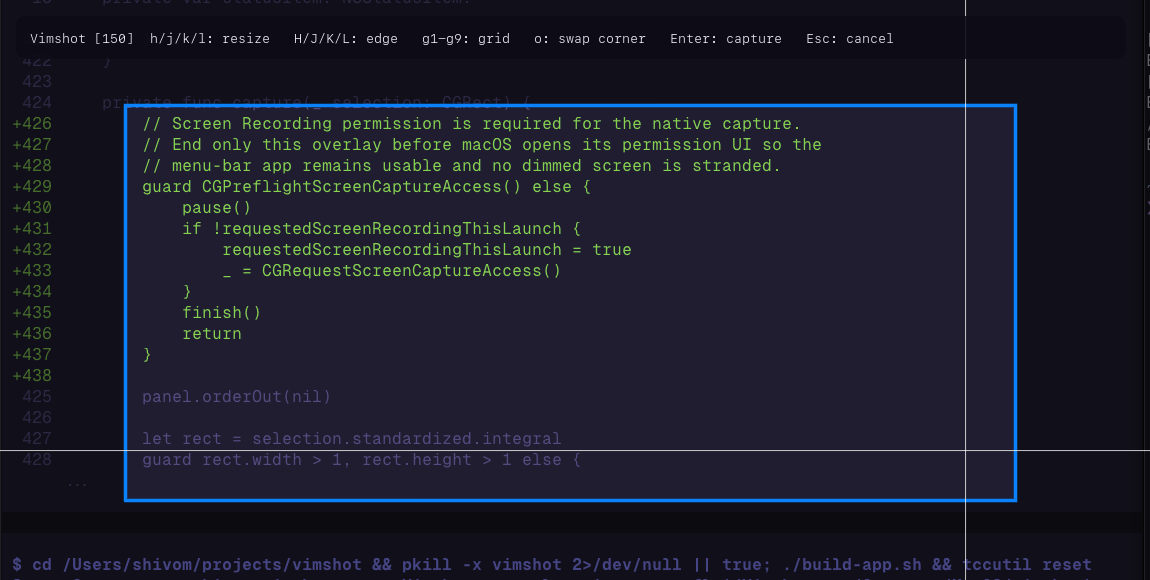
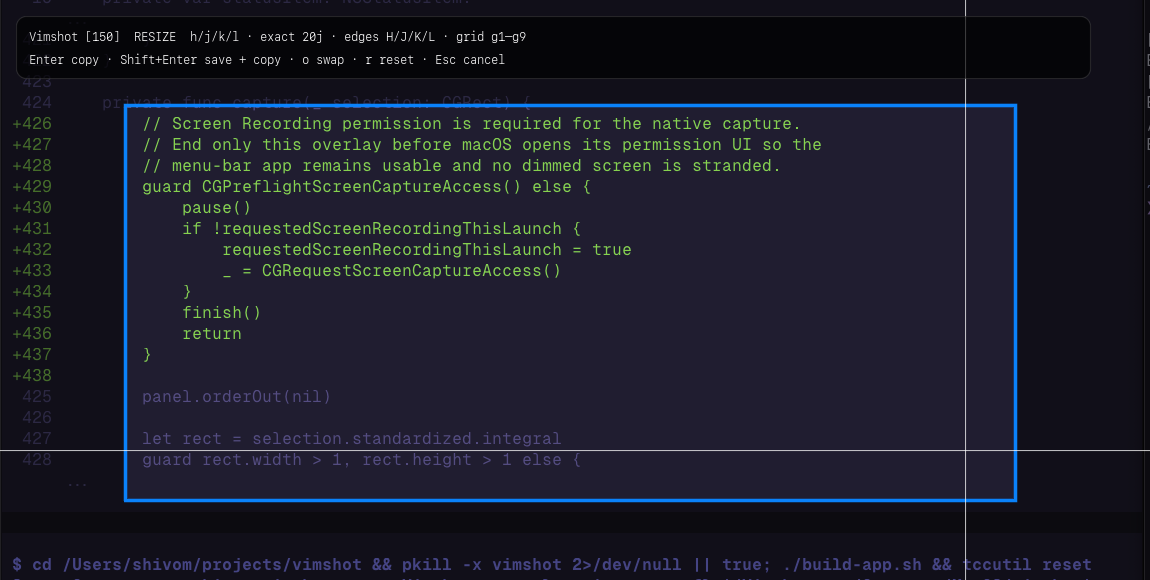
Add explicit capture modes and responsive HUD

diff --git a/Sources/Vimshot/main.swift b/Sources/Vimshot/main.swift
@@ -11,6 +11,11 @@ private let carbonControl: UInt32 = UInt32(controlKey)
 private var requestedAccessibilityThisLaunch = false
 private var requestedScreenRecordingThisLaunch = false
 
+enum CaptureMode: Equatable {
+    case clipboardOnly
+    case clipboardAndFile
+}
+
 final class AppDelegate: NSObject, NSApplicationDelegate {
     private var overlay: ScreenshotOverlay?
     private var statusItem: NSStatusItem!
@@ -340,8 +345,8 @@ final class ScreenshotOverlay {
         panel.collectionBehavior = [.canJoinAllSpaces, .fullScreenAuxiliary, .stationary]
         panel.hidesOnDeactivate = true
 
-        view.onFinish = { [weak self] selection in
-            self?.capture(selection)
+        view.onFinish = { [weak self] selection, mode in
+            self?.capture(selection, mode: mode)
         }
         view.onCancel = { [weak self] in
             self?.finish()
@@ -422,7 +427,7 @@ final class ScreenshotOverlay {
         }
     }
 
-    private func capture(_ selection: CGRect) {
+    private func capture(_ selection: CGRect, mode: CaptureMode) {
         // Screen Recording permission is required for the native capture.
         // End only this overlay before macOS opens its permission UI so the
         // menu-bar app remains usable and no dimmed screen is stranded.
@@ -445,13 +450,19 @@ final class ScreenshotOverlay {
             return
         }
 
-        let folder = FileManager.default.homeDirectoryForCurrentUser
-            .appendingPathComponent("Pictures/Screenshots", isDirectory: true)
-        try? FileManager.default.createDirectory(at: folder, withIntermediateDirectories: true)
+        let destination: URL
+        if mode == .clipboardAndFile {
+            let folder = FileManager.default.homeDirectoryForCurrentUser
+                .appendingPathComponent("Pictures/Screenshots", isDirectory: true)
+            try? FileManager.default.createDirectory(at: folder, withIntermediateDirectories: true)
 
-        let formatter = DateFormatter()
-        formatter.dateFormat = "yyyy-MM-dd-HHmmss"
-        let destination = folder.appendingPathComponent("Vimshot-\(formatter.string(from: Date())).png")
+            let formatter = DateFormatter()
+            formatter.dateFormat = "yyyy-MM-dd-HHmmss-SSS"
+            destination = folder.appendingPathComponent("Vimshot-\(formatter.string(from: Date())).png")
+        } else {
+            destination = FileManager.default.temporaryDirectory
+                .appendingPathComponent("Vimshot-\(UUID().uuidString).png")
+        }
 
         // AppKit uses a bottom-left origin; screencapture uses the Quartz top-left origin.
         let quartzX = Int(rect.minX.rounded())
@@ -479,7 +490,12 @@ final class ScreenshotOverlay {
                     NSPasteboard.general.clearContents()
                     NSPasteboard.general.writeObjects([image])
                 }
-                print(destination.path)
+                if mode == .clipboardOnly {
+                    try? FileManager.default.removeItem(at: destination)
+                    print("Copied screenshot to clipboard")
+                } else {
+                    print(destination.path)
+                }
                 self.finish()
             }
         }
@@ -574,7 +590,7 @@ final class ScreenshotOverlay {
 }
 
 final class SelectionView: NSView {
-    var onFinish: ((CGRect) -> Void)?
+    var onFinish: ((CGRect, CaptureMode) -> Void)?
     var onCancel: (() -> Void)?
     var onSnapWindow: (() -> Void)?
     var onSnapElement: (() -> Void)?
@@ -684,7 +700,11 @@ final class SelectionView: NSView {
         case 124: move(dx: amount, dy: 0) // right
         case 125: move(dx: 0, dy: -amount) // down
         case 126: move(dx: 0, dy: amount) // up
-        case 36, 76: confirm() // return / enter
+        case 36, 76:
+            let mode: CaptureMode = event.modifierFlags.contains(.shift)
+                ? .clipboardAndFile
+                : .clipboardOnly
+            confirm(mode: mode) // return / enter
         case 53: onCancel?() // escape
         default:
             switch key {
@@ -734,16 +754,60 @@ final class SelectionView: NSView {
         context.addLine(to: CGPoint(x: bounds.width, y: cursor.y))
         context.strokePath()
 
+        drawKeyboardHUD()
+    }
+
+    private func drawKeyboardHUD() {
         let prefix = countBuffer.isEmpty ? (pendingG ? "g" : "") : countBuffer
-        let status = anchor == nil
-            ? " Vimshot [\(prefix)]  h/j/k/l: move  H/J/K/L: edge  g1-g9: grid  w: window  e: element  Enter: set  Esc: cancel "
-            : " Vimshot [\(prefix)]  h/j/k/l: resize  H/J/K/L: edge  g1-g9: grid  o: swap corner  Enter: capture  Esc: cancel "
+        let hasSelection = anchor != nil || snappedSelection != nil
+        let status: String
+        if hasSelection {
+            status = "Vimshot [\(prefix)]  RESIZE  h/j/k/l · exact 20j · edges H/J/K/L · grid g1–g9\nEnter copy · ⇧Enter save + copy · o swap · r reset · Esc cancel"
+        } else {
+            status = "Vimshot [\(prefix)]  MOVE  h/j/k/l · exact 20j · edges H/J/K/L · grid g1–g9\nEnter set corner · w window · e element · Esc cancel"
+        }
+
+        let margin: CGFloat = bounds.width < 500 ? 8 : 16
+        let padding: CGFloat = bounds.width < 500 ? 9 : 12
+        let availableWidth = max(bounds.width - margin * 2, 180)
+        let hudWidth = min(availableWidth, 1_080)
+        let fontSize: CGFloat = bounds.width < 700 ? 10.5 : (bounds.width < 1_100 ? 11.5 : 13)
+
+        let paragraph = NSMutableParagraphStyle()
+        paragraph.lineBreakMode = .byWordWrapping
+        paragraph.lineSpacing = 4
         let attributes: [NSAttributedString.Key: Any] = [
-            .font: NSFont.monospacedSystemFont(ofSize: 13, weight: .medium),
-            .foregroundColor: NSColor.white
+            .font: NSFont.monospacedSystemFont(ofSize: fontSize, weight: .medium),
+            .foregroundColor: NSColor.white,
+            .paragraphStyle: paragraph
         ]
         let text = NSAttributedString(string: status, attributes: attributes)
-        text.draw(at: CGPoint(x: 16, y: bounds.height - 34))
+        let contentWidth = max(hudWidth - padding * 2, 1)
+        let measured = text.boundingRect(
+            with: NSSize(width: contentWidth, height: .greatestFiniteMagnitude),
+            options: [.usesLineFragmentOrigin, .usesFontLeading]
+        )
+        let hudHeight = ceil(measured.height) + padding * 2
+        let hudRect = NSRect(
+            x: margin,
+            y: max(margin, bounds.height - margin - hudHeight),
+            width: hudWidth,
+            height: hudHeight
+        )
+
+        let background = NSBezierPath(roundedRect: hudRect, xRadius: 10, yRadius: 10)
+        NSColor.black.withAlphaComponent(0.68).setFill()
+        background.fill()
+        NSColor.white.withAlphaComponent(0.13).setStroke()
+        background.lineWidth = 1
+        background.stroke()
+
+        text.draw(in: NSRect(
+            x: hudRect.minX + padding,
+            y: hudRect.minY + padding,
+            width: contentWidth,
+            height: ceil(measured.height)
+        ))
     }
 
     private enum Edge {
@@ -792,14 +856,14 @@ final class SelectionView: NSView {
         needsDisplay = true
     }
 
-    private func confirm() {
+    private func confirm(mode: CaptureMode) {
         if let snappedSelection {
             onFinish?(CGRect(
                 x: snappedSelection.minX + frame.minX,
                 y: snappedSelection.minY + frame.minY,
                 width: snappedSelection.width,
                 height: snappedSelection.height
-            ))
+            ), mode)
             return
         }
         if anchor == nil {
@@ -811,7 +875,7 @@ final class SelectionView: NSView {
                 y: min(anchor!.y, cursor.y) + frame.minY,
                 width: abs(cursor.x - anchor!.x),
                 height: abs(cursor.y - anchor!.y)
-            ))
+            ), mode)
         }
     }
 

diff --git a/README.md b/README.md
@@ -12,7 +12,7 @@ Select regions, jump across the screen, and snap to UI elements without reaching
 
 </div>
 
-Vimshot lives in the menu bar and opens with a global shortcut. It uses Apple's native `screencapture` engine, saves each image to `~/Pictures/Screenshots`, and places it on the clipboard automatically.
+Vimshot lives in the menu bar and opens with a global shortcut. It uses Apple's native `screencapture` engine and lets each capture either go only to the clipboard or also be saved in `~/Pictures/Screenshots`.
 
 ## Preview
 
@@ -31,7 +31,7 @@ Vimshot lives in the menu bar and opens with a global shortcut. It uses Apple's 
 - **Fast jumps** to screen edges or a 3×3 grid
 - **Window snapping** without extra permissions
 - **UI-element snapping** through macOS Accessibility
-- **Native capture output** copied and saved automatically
+- **Explicit output modes** for clipboard-only or clipboard-and-file capture
 - **Menu-bar launcher** with a configurable global shortcut
 
 ## Install
@@ -58,8 +58,8 @@ To start it automatically, add `Vimshot.app` under **System Settings → General
 
 1. Press **⌥⇧S** or choose **Take Screenshot** from the menu-bar icon.
 2. Move the crosshair to the first corner and press `Enter`.
-3. Move to the opposite corner and press `Enter` again.
-4. The image is saved and copied to the clipboard.
+3. Move to the opposite corner.
+4. Press `Enter` to copy only, or `Shift+Enter` to copy and save.
 
 Choose **Set Keyboard Shortcut…** from the menu-bar icon to replace the default shortcut.
 
@@ -85,7 +85,8 @@ Choose **Set Keyboard Shortcut…** from the menu-bar icon to replace the defaul
 
 | Keys | Action |
 |---|---|
-| `Enter` | Set the first corner, then capture at the second corner |
+| `Enter` | Set the first corner; at the second corner, copy to clipboard only |
+| `Shift+Enter` | At the second corner, copy and save to `~/Pictures/Screenshots` |
 | `o` | Swap the fixed and active selection corners |
 | `r` | Reset the selection |
 | `Esc` / `q` | Cancel the current capture |
@@ -97,7 +98,7 @@ Choose **Set Keyboard Shortcut…** from the menu-bar icon to replace the defaul
 | `w` | Snap to the window beneath the crosshair |
 | `e` | Snap to the Accessibility UI element beneath the crosshair |
 
-After snapping, press `Enter` to capture.
+After snapping, press `Enter` to copy, or `Shift+Enter` to copy and save.
 
 ## Permissions
 
@@ -110,10 +111,11 @@ Window snapping with `w` does not require Accessibility access. If macOS opens S
 
 ## Output
 
-Every successful capture is:
+Every successful capture is written to the macOS clipboard as an image. When captured with `Shift+Enter`, it is also saved as:
 
-1. Saved as `~/Pictures/Screenshots/Vimshot-YYYY-MM-DD-HHMMSS.png`
-2. Written to the macOS clipboard as an image
+```text
+~/Pictures/Screenshots/Vimshot-YYYY-MM-DD-HHMMSS-SSS.png
+```
 
 ## Development
 
